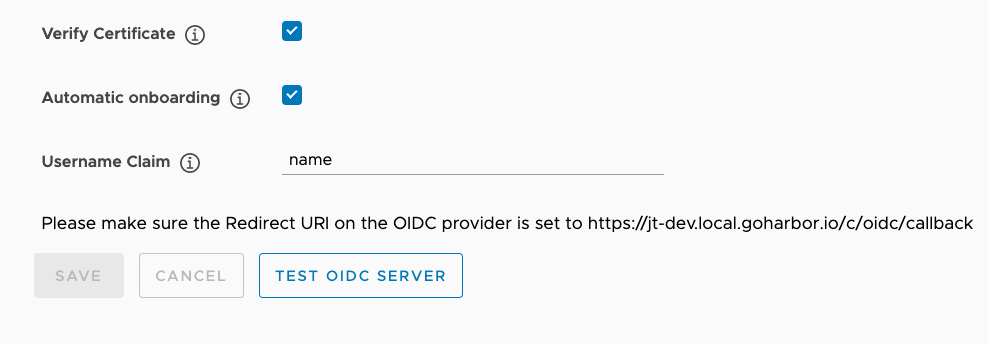
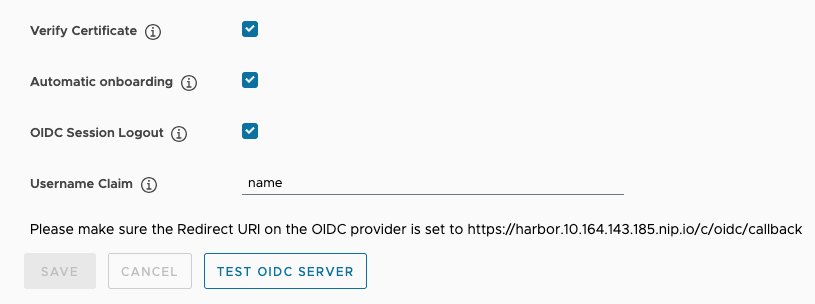
update oidc configuration
add the oidc session logout option description

diff --git a/docs/administration/configure-authentication/oidc-auth.md b/docs/administration/configure-authentication/oidc-auth.md
@@ -34,7 +34,7 @@ Before configuring an OIDC provider in Harbor, make sure that your provider is c
 {{< note >}}
 To override and login via DB is possible when visiting the URL '/account/sign-in' explicitly
 {{< /note >}}   
-   - **OIDC Provider Name**: The name of the OIDC provider.
+   - **OIDC Provider Name**: The name of≈
    - **OIDC Provider Endpoint**: The URL of the endpoint of the OIDC provider.
    - **OIDC Client ID**: The client ID with which Harbor is registered as  client application with the OIDC provider.
    - **OIDC Client Secret**: The secret for the Harbor client application.
@@ -49,7 +49,8 @@ To override and login via DB is possible when visiting the URL '/account/sign-in
        ![OIDC settings](../../../img/oidc-auth-setting.png)
 1. Uncheck **Verify Certificate** if the OIDC Provider uses a self-signed or untrusted certificate.
 1. Check the **Automatic onboarding** if you don't want user to set his username in Harbor during his first login.  When this option is checked, the attribute **Username Claim** must be set, Harbor will read the value of this claim from ID token and use it as the username for onboarding the user.  Therefore, you must make sure the value you set in **Username Claim** is included in the ID token returned by the OIDC provider you set, otherwise there will be a system error when Harbor tries to onboard the user.
-1. Verify that the Redirect URI that you configured in your OIDC provider is the same as the one displayed at the bottom of the page. 
+1. Check the **OIDC Session Logout** if you want to terminate the user's current session with the OIDC provider.
+2. Verify that the Redirect URI that you configured in your OIDC provider is the same as the one displayed at the bottom of the page. 
        ![OIDC_auto_onboarding](../../../img/oidc-cert-verifi-auto-onboard.png)
 1. Click **Test OIDC Server** to make sure that your configuration is correct.
 1. Click **Save** to complete the configuration.
